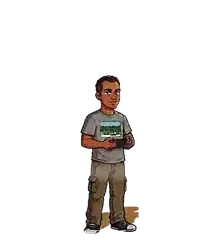
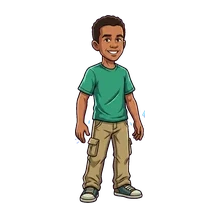
v25: personagens REFEITOS de corpo inteiro (estilo cartoon, rostos baseados nas fotos, sem foto colada), Silvanna com corpo proprio, retratos novos na selecao, poeira e particulas vivas por fase.

Changed region(s): [[0.3273, 0.0545, 0.6818, 0.9818]]

diff --git a/public/client.js b/public/client.js
@@ -10,7 +10,7 @@ let game = null;
 let openRooms = [];
 let currentScreen = 'menuScreen';
 let toastTimer = null;
-const ASSET_VERSION = '24';
+const ASSET_VERSION = '25';
 const SHOW_ARENA_TEXT = false;
 const SHOW_STAGE_INTRO = true;
 
@@ -75,26 +75,26 @@ const SPRITE_FILES = {
   otavio: 'assets/spritesheets/otavio.webp',
   romulo: 'assets/spritesheets/romulo.webp',
   vanjo: 'assets/spritesheets/vanjo.webp',
-  silvanna: 'assets/spritesheets/vanjo.webp'
+  silvanna: 'assets/spritesheets/silvanna.webp'
 };
 
 
 const PORTRAIT_FILES = {
-  albert: 'assets/faces/albert.png',
-  geovanna: 'assets/faces/geovanna.png',
-  romulo: 'assets/faces/romulo.png',
-  arthur: 'assets/faces/arthur.png',
-  guilherme: 'assets/faces/guilherme.png'
+  albert: 'assets/portraits/albert.webp',
+  geovanna: 'assets/portraits/geovanna.webp',
+  romulo: 'assets/portraits/romulo.webp',
+  arthur: 'assets/portraits/arthur.webp',
+  guilherme: 'assets/portraits/guilherme.webp'
 };
 function versionedAsset(src) { return `${src}${src.includes('?') ? '&' : '?'}v=${ASSET_VERSION}`; }
 
 const SPRITE_HEIGHT = {
   // Altura do arquivo completo já com margem transparente. A parte visível fica do tamanho correto.
-  albert: 222, geovanna: 204, romulo: 212, arthur: 207, guilherme: 207,
-  otavio: 229, anielle: 217, mito: 279, lenda: 283, vanjo: 276, silvanna: 276, napoleao: 274
+  albert: 191, geovanna: 173, romulo: 182, arthur: 177, guilherme: 177,
+  otavio: 199, anielle: 188, mito: 244, lenda: 249, vanjo: 276, silvanna: 241, napoleao: 239
 };
 
-const SPRITE_SHEETS = {"albert":{"frameW":128,"frameH":224,"cols":4,"rows":4,"pad":29},"anielle":{"frameW":125,"frameH":219,"cols":4,"rows":4,"pad":28},"arthur":{"frameW":109,"frameH":210,"cols":4,"rows":4,"pad":28},"geovanna":{"frameW":110,"frameH":208,"cols":4,"rows":4,"pad":28},"guilherme":{"frameW":109,"frameH":210,"cols":4,"rows":4,"pad":28},"lenda":{"frameW":162,"frameH":279,"cols":4,"rows":4,"pad":34},"mito":{"frameW":148,"frameH":275,"cols":4,"rows":4,"pad":34},"napoleao":{"frameW":255,"frameH":271,"cols":4,"rows":4,"pad":34},"otavio":{"frameW":128,"frameH":230,"cols":4,"rows":4,"pad":29},"romulo":{"frameW":115,"frameH":215,"cols":4,"rows":4,"pad":28},"vanjo":{"frameW":155,"frameH":272,"cols":4,"rows":4,"pad":34},"silvanna":{"frameW":155,"frameH":272,"cols":4,"rows":4,"pad":34}};
+const SPRITE_SHEETS = {"albert":{"frameW":128,"frameH":256,"cols":4,"rows":4,"pad":18},"anielle":{"frameW":130,"frameH":256,"cols":4,"rows":4,"pad":18},"arthur":{"frameW":107,"frameH":256,"cols":4,"rows":4,"pad":18},"geovanna":{"frameW":121,"frameH":256,"cols":4,"rows":4,"pad":18},"guilherme":{"frameW":140,"frameH":256,"cols":4,"rows":4,"pad":18},"lenda":{"frameW":199,"frameH":256,"cols":4,"rows":4,"pad":18},"mito":{"frameW":163,"frameH":256,"cols":4,"rows":4,"pad":18},"napoleao":{"frameW":231,"frameH":256,"cols":4,"rows":4,"pad":18},"otavio":{"frameW":125,"frameH":256,"cols":4,"rows":4,"pad":18},"romulo":{"frameW":150,"frameH":256,"cols":4,"rows":4,"pad":18},"vanjo":{"frameW":155,"frameH":272,"cols":4,"rows":4,"pad":34},"silvanna":{"frameW":119,"frameH":256,"cols":4,"rows":4,"pad":18}};
 
 const CHARACTER_ANIM = {
   albert: { color: '#ffd84a', aura: '#ffd84a', fx: 'fists' },
@@ -138,73 +138,10 @@ function getStageAsset(key) {
   return assets.stages[key];
 }
 
-// Rostos REAIS dos personagens (fotos) aplicados sobre a cabeça na arena
-const FACE_FILES = {
-  albert: 'assets/faces/albert.png',
-  geovanna: 'assets/faces/geovanna.png',
-  romulo: 'assets/faces/romulo.png',
-  arthur: 'assets/faces/arthur.png',
-  guilherme: 'assets/faces/guilherme.png',
-  otavio: 'assets/faces/otavio.png',
-  anielle: 'assets/faces/anielle.png',
-  mito: 'assets/faces/mito.png',
-  lenda: 'assets/faces/lenda.png',
-  silvanna: 'assets/faces/silvanna.png',
-  napoleao: 'assets/faces/napoleao.png'
-};
-const FACE_SCALE = {
-  // diâmetro do rosto em relação à altura visível do personagem (cobre a cabeça do sprite)
-  albert: .255, geovanna: .25, romulo: .255, arthur: .25, guilherme: .255,
-  otavio: .27, anielle: .27, mito: .235, lenda: .235, silvanna: .26
-};
-function getFaceAsset(key) {
-  const src = FACE_FILES[key];
-  if (!src) return null;
-  if (!assets.faces || !assets.faces[key]) {
-    assets.faces = assets.faces || {};
-    assets.faces[key] = loadAsset(src);
-  }
-  return assets.faces[key];
-}
-// desenha o rosto real (recortado em círculo) sobre a cabeça do personagem
-function drawFaceHead(key, x, topY, visibleH, facing = 1, alpha = 1, opts = {}) {
-  const img = getFaceAsset(key);
-  if (!assetReady(img)) return;
-  const isDog = key === 'napoleao';
-  const diam = (isDog ? .30 : (FACE_SCALE[key] || .17)) * visibleH * (opts.grow || 1);
-  const cx = x;
-  const cy = topY + visibleH * (isDog ? .24 : .15);
-  const r = diam / 2;
-  ctx.save();
-  ctx.globalAlpha = alpha;
-  ctx.beginPath();
-  if (isDog) {
-    // cachorro: retângulo/círculo maior no "focinho"
-    ctx.ellipse(cx, cy, r * 1.05, r * .95, 0, 0, Math.PI * 2);
-  } else {
-    ctx.arc(cx, cy, r, 0, Math.PI * 2);
-  }
-  ctx.clip();
-  // cover do rosto no círculo
-  const iw = img.naturalWidth, ih = img.naturalHeight;
-  const s = Math.max((r * 2) / iw, (r * 2) / ih);
-  const dw = iw * s, dh = ih * s;
-  ctx.drawImage(img, cx - dw / 2, cy - dh / 2, dw, dh);
-  ctx.restore();
-  // aro dourado em volta do rosto
-  if (!isDog) {
-    ctx.save();
-    ctx.globalAlpha = alpha;
-    ctx.strokeStyle = 'rgba(255,216,120,.85)';
-    ctx.lineWidth = Math.max(1.5, r * .09);
-    ctx.beginPath(); ctx.arc(cx, cy, r, 0, Math.PI * 2); ctx.stroke();
-    ctx.restore();
-  }
-}
 function prewarmCurrentAssets() {
   if (game?.stageBackground) getStageAsset(game.stageBackground);
-  for (const p of game?.players || []) { getSpriteAsset(p.hero); getFaceAsset(p.hero); }
-  for (const e of game?.enemies || []) { getSpriteAsset(e.type); getFaceAsset(e.type); }
+  for (const p of game?.players || []) getSpriteAsset(p.hero);
+  for (const e of game?.enemies || []) getSpriteAsset(e.type);
 }
 
 const keys = {};
@@ -1051,6 +988,51 @@ function drawStageAnimation() {
       ctx.stroke();
     }
   }
+  drawStageAmbient(t, light, key);
+  ctx.restore();
+}
+
+// partículas ambientes que atravessam a fase (folhas, brasas, faíscas, poeira, migalhas)
+function drawStageAmbient(t, light, key) {
+  const count = light ? 6 : 14;
+  const W = view.w, H = view.h;
+  let color = '#ffd166', color2 = '#ffffff', drift = 18, size = 4, mode = 'float';
+  if (key.includes('lama_esgoto')) { color = '#9ed38b'; color2 = '#c9e6b4'; drift = 10; size = 3; mode = 'float'; }
+  else if (key.includes('ifs_mito')) { color = '#80d8ff'; color2 = '#ff70df'; drift = 26; size = 3; mode = 'spark'; }
+  else if (key.includes('terreiro_lenda')) { color = '#ffb032'; color2 = '#ff6b3d'; drift = 14; size = 3.5; mode = 'ember'; }
+  else if (key.includes('supermercado_vanjo')) { color = '#ffffff'; color2 = '#cfe8ff'; drift = 22; size = 3; mode = 'leaf'; }
+  else if (key.includes('reino_comidas')) { color = '#ffd166'; color2 = '#ff9f1c'; drift = 12; size = 4; mode = 'food'; }
+  ctx.save();
+  for (let i = 0; i < count; i++) {
+    const seed = i * 97.13;
+    const ph = t * (0.14 + (i % 5) * 0.028) + seed;
+    let x, y;
+    if (mode === 'ember' || mode === 'spark') {
+      x = (seed * 13.7) % W;
+      y = H - ((ph * 46) % (H + 60)) + 30;
+      x += Math.sin(t * 1.6 + seed) * drift;
+    } else {
+      x = W - ((ph * 52) % (W + 80)) + 40;
+      y = (seed * 7.9) % (H * .85) + Math.sin(t * 1.1 + seed) * drift;
+    }
+    const s2 = size * (0.7 + ((i * 37) % 10) / 14);
+    const tw = 0.5 + Math.sin(t * 2.6 + seed) * 0.28;
+    ctx.globalAlpha = (light ? .16 : .30) * tw;
+    ctx.fillStyle = i % 2 ? color : color2;
+    if (mode === 'leaf') {
+      ctx.beginPath(); ctx.ellipse(x, y, s2 * 1.7, s2 * .62, t + seed, 0, Math.PI * 2); ctx.fill();
+    } else if (mode === 'food') {
+      ctx.beginPath(); ctx.arc(x, y, s2, 0, Math.PI * 2); ctx.fill();
+      ctx.globalAlpha *= .8; ctx.fillStyle = '#fff3c4';
+      ctx.beginPath(); ctx.arc(x - s2 * .3, y - s2 * .3, s2 * .38, 0, Math.PI * 2); ctx.fill();
+    } else if (mode === 'ember') {
+      ctx.beginPath(); ctx.arc(x, y, s2, 0, Math.PI * 2); ctx.fill();
+      ctx.globalAlpha *= .5; ctx.fillStyle = '#ffe9a8';
+      ctx.beginPath(); ctx.arc(x, y - s2 * 1.5, s2 * .5, 0, Math.PI * 2); ctx.fill();
+    } else {
+      ctx.beginPath(); ctx.arc(x, y, s2, 0, Math.PI * 2); ctx.fill();
+    }
+  }
   ctx.restore();
 }
 
@@ -1240,6 +1222,17 @@ function getMotion(id, targetX, targetY, vx = 0, vy = 0) {
   return m;
 }
 
+// cor da poeira levantada ao pisar, combinando com o chão de cada fase
+function stageDustColor() {
+  const k = game?.stageBackground || '';
+  if (k.includes('lama_esgoto')) return '#8a6f42';      // lama
+  if (k.includes('ifs_mito')) return '#7fd8ff';         // pátio tecnológico
+  if (k.includes('terreiro_lenda')) return '#ffb032';   // terra/brasas
+  if (k.includes('supermercado_vanjo')) return '#e8ecf2'; // piso limpo
+  if (k.includes('reino_comidas')) return '#ffd166';    // migalhas douradas
+  return '#f2d7a7';
+}
+
 function drawStepDust(x, y, phase, color = '#f2d7a7') {
   const a = Math.abs(Math.sin(phase * 1.7));
   if (a < .58) return;
@@ -1248,6 +1241,15 @@ function drawStepDust(x, y, phase, color = '#f2d7a7') {
   ctx.fillStyle = color;
   ctx.beginPath(); ctx.ellipse(x - 18, y + 2, 13 * a, 4, 0, 0, Math.PI * 2); ctx.fill();
   ctx.beginPath(); ctx.ellipse(x + 18, y + 2, 13 * a, 4, 0, 0, Math.PI * 2); ctx.fill();
+  // partículas subindo (dão vida ao passo)
+  if (quality !== 'performance' && perfLevel < 1) {
+    ctx.globalAlpha = .28 * a;
+    const t = performance.now() / 260;
+    for (let i = 0; i < 2; i++) {
+      const px = x + Math.sin(t + i * 2.4) * 14, py = y - ((t * .5 + i * .5) % 1) * 22;
+      ctx.beginPath(); ctx.arc(px, py, 2.4 + (i ? 1.4 : 0), 0, Math.PI * 2); ctx.fill();
+    }
+  }
   ctx.restore();
 }
 
@@ -1680,11 +1682,10 @@ function drawPlayer(p) {
 
   ctx.fillStyle = 'rgba(0,0,0,.36)';
   ctx.beginPath(); ctx.ellipse(x, footY + 3, motion.moving ? 52 : 44, motion.moving ? 17 : 14, 0, 0, Math.PI * 2); ctx.fill();
-  if (motion.moving) drawStepDust(x, footY + 2, motion.phase, '#f0d0a0');
+  if (motion.moving) drawStepDust(x, footY + 2, motion.phase, stageDustColor());
 
   const glow = p.hitFlash > 0 ? '#ff6b6b' : p.ultimate >= 100 ? '#ffd166' : (p.hero === 'guilherme' ? '#7bd3ff' : null);
   const drawn = drawSpriteImage(p.hero, x, footY, height, facing, 1, glow, motion, { name: p.action, timer: p.actionTimer, hit: p.hitFlash });
-  if (!p.dead) drawFaceHead(p.hero, x, drawn.top, drawn.visibleH, facing, alpha, {});
   drawHeroPersonality(p, x, y, footY, drawn, facing, motion);
 
   if (p.dead) {
@@ -1717,7 +1718,7 @@ function drawEnemy(e) {
 
   ctx.fillStyle = 'rgba(0,0,0,.40)';
   ctx.beginPath(); ctx.ellipse(x, footY + 4, Math.max(45, e.radius * 1.45) * grow, Math.max(14, e.radius * .40) * grow, 0, 0, Math.PI*2); ctx.fill();
-  if (motion.moving) drawStepDust(x, footY + 4, motion.phase, e.type === 'lenda' ? '#ffb032' : '#d7c7b0');
+  if (motion.moving) drawStepDust(x, footY + 4, motion.phase, e.type === 'lenda' ? '#ffb032' : stageDustColor());
 
   if (e.stun > 0) {
     ctx.save();
@@ -1741,7 +1742,6 @@ function drawEnemy(e) {
   }
 
   const drawn = drawSpriteImage(e.type, x, footY, height, facing, 1, glow, motion, { name: e.action, timer: e.actionTimer, hit: e.hitFlash });
-  drawFaceHead(e.type, x, drawn.top, drawn.visibleH, facing, 1, { grow });
   drawEnemyPersonality(e, x, y, footY, drawn, facing, motion);
 
   if (e.stun > 0) drawStatusText(x, Math.max(24, drawn.top - 44), 'stun', '#7bd3ff');

diff --git a/public/index.html b/public/index.html
@@ -4,7 +4,7 @@
   <meta charset="UTF-8" />
   <meta name="viewport" content="width=device-width, initial-scale=1.0, maximum-scale=1.0, user-scalable=no, viewport-fit=cover" />
   <title>Arena das Sete Chamas Online</title>
-  <link rel="stylesheet" href="styles.css?v=24" />
+  <link rel="stylesheet" href="styles.css?v=25" />
 </head>
 <body>
   <div id="toast" class="toast"></div>
@@ -128,6 +128,6 @@
 
 
   <script src="/socket.io/socket.io.js"></script>
-  <script src="client.js?v=24"></script>
+  <script src="client.js?v=25"></script>
 </body>
 </html>
